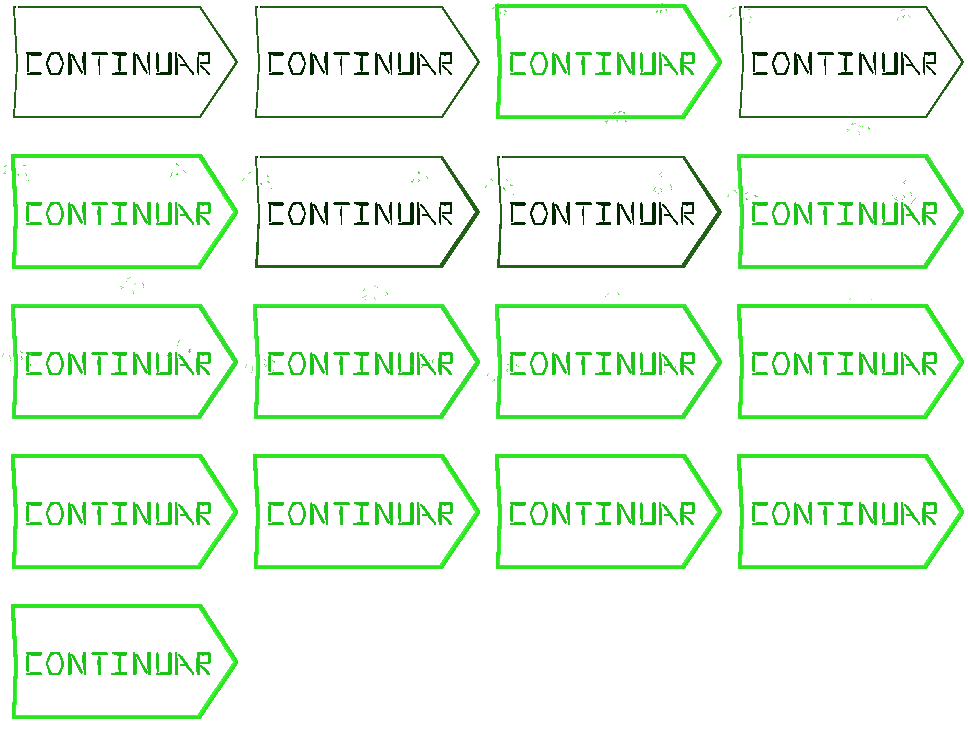
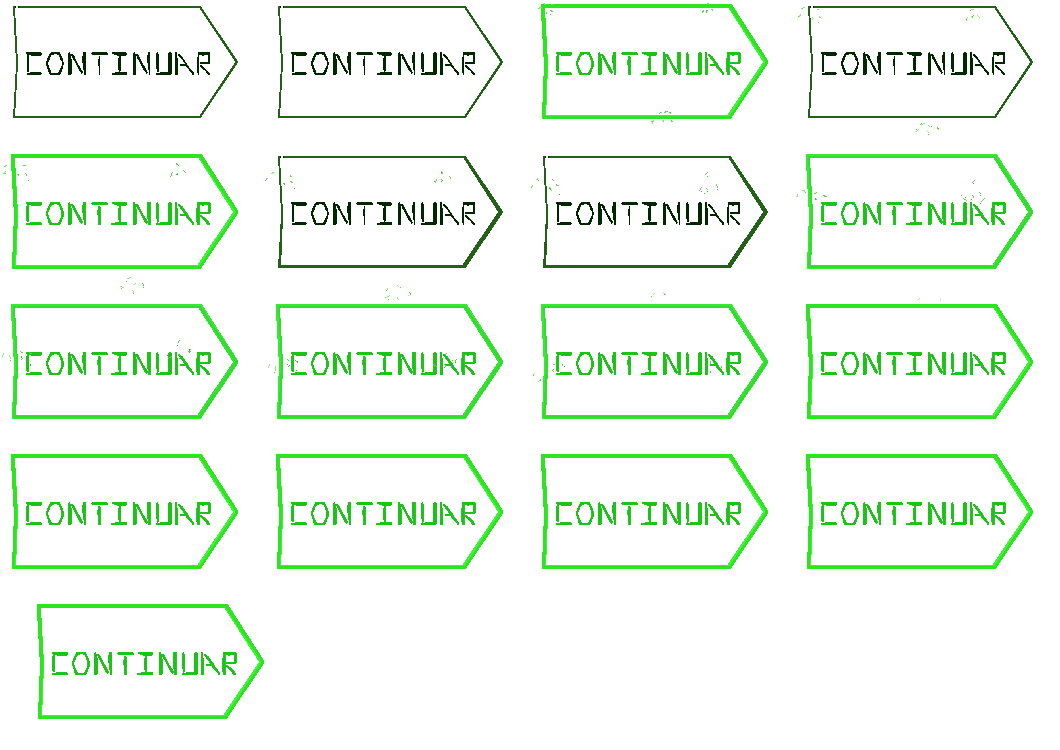
cambiado feedbackBotones

diff --git a/ProyectosSDL/HolaSDL/MainMenuState.cpp b/ProyectosSDL/HolaSDL/MainMenuState.cpp
@@ -12,7 +12,6 @@ MainMenuState::MainMenuState(SDLApp * game):GameState(game)
 		game->getStateMachine()->pushState(new PlayState(game));//pop antes??
 		static_cast<PlayState*>(game->getStateMachine()->currentState())->getScenes()[0]->enterScene();
 		game->getStateMachine()->pushState(new TransitionScreen(game, game->getStateMachine()->currentState(), 3500));
-		game->getStateMachine()->pushState(new TransitionScreen(game, game->getStateMachine()->currentState(), 2000));
 	};
 
 	lGame_ = [game]() { //funcion LoadGame();
@@ -36,35 +35,33 @@ MainMenuState::MainMenuState(SDLApp * game):GameState(game)
 
 	Boton* b;
 	b = new Boton(app, "NewGame", nGame_);
-	b->setWidth(150); b->setHeight(90);
-	b->setPosition(Vector2D(app->getWindowWidth() / 2 - b->getWidth() / 2, ((app->getWindowHeight() - app->getWindowHeight() / 3) * 1 / 5)+ 270));
-	b->addAnim("Feedback", { 0,1,2,3,4,5,6,7,8,9,10,11,12,13,14,15,16 }, true, -1, 150);
-	b->addAnim("Stop", { 0 }, true, -1, 100);
-	btext = new AnimationRenderer(app->getResources()->getImageTexture(Resources::BotonComenzar), b->getAnimations(), 4, 5, 242, 150);
+	b->setWidth(150); b->setHeight(100);
+	b->setPosition(Vector2D(app->getWindowWidth() / 2 - b->getWidth() / 2, ((app->getWindowHeight() - app->getWindowHeight() / 3) * 1 / 5)+ 250));
+	b->addAnim("Feedback", { 16 }, true, -1, 100);
+	b->addAnim("Stop", { 0,1,2,3,4,5,6,7,8,9,10,11,12,13,14,15,0,0,0,0,0,0,0,0,0,0 }, true, -1, 100);
+	btext = new AnimationRenderer(app->getResources()->getImageTexture(Resources::BotonComenzar), b->getAnimations(), 4, 5, 265, 150);
 	btext->playAnim("Stop");
 	b->setAnimated(true);
 	b->addRenderComponent(btext);
 	botones.push_back(b); stage.push_back(b);
 
 	b = (new Boton(app, "Load Game", lGame_));
-
-	b->setWidth(150); b->setHeight(90);
-	b->setPosition(Vector2D(app->getWindowWidth() / 2 - b->getWidth() / 2, ((app->getWindowHeight() - app->getWindowHeight() / 3) * 2 / 5)+270));
-	b->addAnim("Feedback", { 0,1,2,3,4,5,6,7,8,9,10,11,12,13,14,15,16 }, true, -1, 150);
-	b->addAnim("Stop", { 0 }, true, -1, 100);
-	bLoadtext = new AnimationRenderer(app->getResources()->getImageTexture(Resources::BotonLoad), b->getAnimations(), 4, 5, 242, 150);
+	b->setWidth(150); b->setHeight(100);
+	b->setPosition(Vector2D(app->getWindowWidth() / 2 - b->getWidth() / 2, ((app->getWindowHeight() - app->getWindowHeight() / 3) * 2 / 5)+250));
+	b->addAnim("Feedback", { 16 }, true, -1, 100);
+	b->addAnim("Stop", { 0,1,2,3,4,5,6,7,8,9,10,11,12,13,14,15,0,0,0,0,0,0,0,0,0,0,0,0,0,0,0,0,0,0,0,0,0,0,0,0,0,0,0,0,0,0,0,0,0,0 }, true, -1, 100);
+	bLoadtext = new AnimationRenderer(app->getResources()->getImageTexture(Resources::BotonLoad), b->getAnimations(), 4, 5, 265, 150);
 	bLoadtext->playAnim("Stop");
 	b->setAnimated(true);
 	b->addRenderComponent(bLoadtext);
 	botones.push_back(b); stage.push_back(b);
 
 	b = (new Boton(app, "Exit", eGame_));
-
-	b->setWidth(150); b->setHeight(90);
-	b->setPosition(Vector2D(app->getWindowWidth() / 2 - b->getWidth() / 2, ((app->getWindowHeight() - app->getWindowHeight() / 3) * 3 / 5)+270));
-	b->addAnim("Feedback", { 0,1,2,3,4,5,6,7,8,9,10,11,12,13,14,15,16 }, true, -1, 150);
-	b->addAnim("Stop", { 0 }, true, -1, 100);
-	bExittext = new AnimationRenderer(app->getResources()->getImageTexture(Resources::BotonExit), b->getAnimations(), 4, 5, 242, 150);
+	b->setWidth(150); b->setHeight(100);
+	b->setPosition(Vector2D(app->getWindowWidth() / 2 - b->getWidth() / 2, ((app->getWindowHeight() - app->getWindowHeight() / 3) * 3 / 5)+250));
+	b->addAnim("Feedback", { 16 }, true, -1, 75);
+	b->addAnim("Stop", { 0,1,2,3,4,5,6,7,8,9,0,0,0,0,0,0,0,0,0,0,0,0,0,0,0,0,0,0,0,0,0,0,0 }, true, -1, 100);
+	bExittext = new AnimationRenderer(app->getResources()->getImageTexture(Resources::BotonExit), b->getAnimations(), 4, 5, 265, 150);
 	bExittext->playAnim("Stop");
 	b->addRenderComponent(bExittext);
 	b->setAnimated(true);
